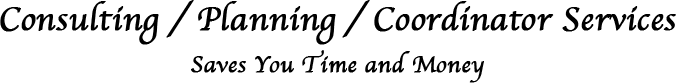
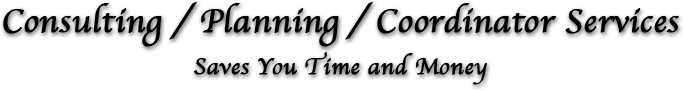
new details header images

Changed region(s): [[0.0, 0.0, 1.0, 1.0]]

diff --git a/css/main.css b/css/main.css
@@ -463,12 +463,14 @@ ul.image-carousel li.last-active{
 }
 #service-details h4 {
 	font-size: 24px;
-	margin-bottom: 10px;
+	margin-bottom: 40px;
+	float: left;
+	width: 150px;
 }
 #service-details h3.consultant-header {
 	background: url(../img/text-consultant2.png) no-repeat 0px 0px;
-	height: 88px;
-	width: 677px;
+	height: 91px;
+	width: 684px;
 }
 #service-details h3.decorations-header {
 	background: url(../img/text-decorations.png) no-repeat 0px 0px;
@@ -485,23 +487,23 @@ ul.image-carousel li.last-active{
 }
 #service-details h3.specialEvents-header {
 	background: url(../img/text-specialEvents2.png) no-repeat center 0px;
-	width: 595px;
-	height: 192px;
+	width: 603px;
+	height: 200px;
 }
 #service-details h3.floral-header {
 	background: url(../img/text-floral2.png) no-repeat center 0px;
-	width: 254px;
-	height: 71px;
+	width: 262px;
+	height: 80px;
 }
 #service-details h3.cake-header {
 	background: url(../img/text-cakes2.png) no-repeat center 0px;
-	width: 254px;
-	height: 44px;
+	width: 262px;
+	height: 52px;
 }
 #service-details h3.music-header {
 	background: url(../img/text-music2.png) no-repeat center 0px;
-	width: 454px;
-	height: 44px;
+	width: 459px;
+	height: 53px;
 }
 #service-details h3.lighting-header {
 	background: url(../img/text-lighting.png) no-repeat center 0px;
@@ -509,8 +511,8 @@ ul.image-carousel li.last-active{
 }
 #service-details h3.catering-header {
 	background: url(../img/text-catering2.png) no-repeat center 0px;
-	width: 365px;
-	height: 45px;
+	width: 373px;
+	height: 53px;
 }
 a.btn-back {
 	background: url(../img/btn-back.png) no-repeat 0px 0px;
@@ -535,15 +537,15 @@ a.btn-back:hover {
 *******************************************/
 
 
-ul.img-row { margin-bottom: 60px; }
+ul.img-row { margin: 0 25px 60px 29px; }
 ul.img-row li {
 	float: left;
-	margin-left: 80px;
+	margin-left: 53px;
 }
-.cakes ul.img-row li { margin-left: 117px; }
-.catering ul.img-row li { margin-left: 155px; }
-.music ul.img-row li { margin-left: 197px; }
-.specialEvents ul.img-row li { margin-left: 40px; }
+.cakes ul.img-row li { margin-left: 90px; }
+.catering ul.img-row li { margin-left: 129px; }
+.music ul.img-row li { margin-left: 170px; }
+.specialEvents ul.img-row li { margin-left: 12px; }
 ul.img-row li:first-child { margin-left: 0px; }
 ul.img-row li img {
 	box-shadow: 0px 5px 12px #333333;

diff --git a/details-consultant.html b/details-consultant.html
@@ -43,10 +43,13 @@
 			<div class="deets-container-1">
 				<h4>Consultant -</h4>
 				<p>We're happy to help with ideas and the how too's in order to make your event less stressful</p>
+				<span class="clear"></span>
 				<h4>Planner -</h4>
 				<p>Taking shared ideas and working out the details to make your event everything you hope for. All the details of how to pull it together. We can help you organize so it's ready to set up!</p>
+				<span class="clear"></span>
 				<h4>Coordinator -</h4>
 				<p class="last">Every detail is taken care of, we make sure your vision is followed through with. Your part is to enjoy and celebrate!</p>
+				<span class="clear"></span>
 			</div>
 			<div class="deets-container-2">
 				<p class="diy"><span>DIY</span>If you want to <b>"do it yourself"</b> we provide everything you need. Vendors, décor, knowledge</p>
